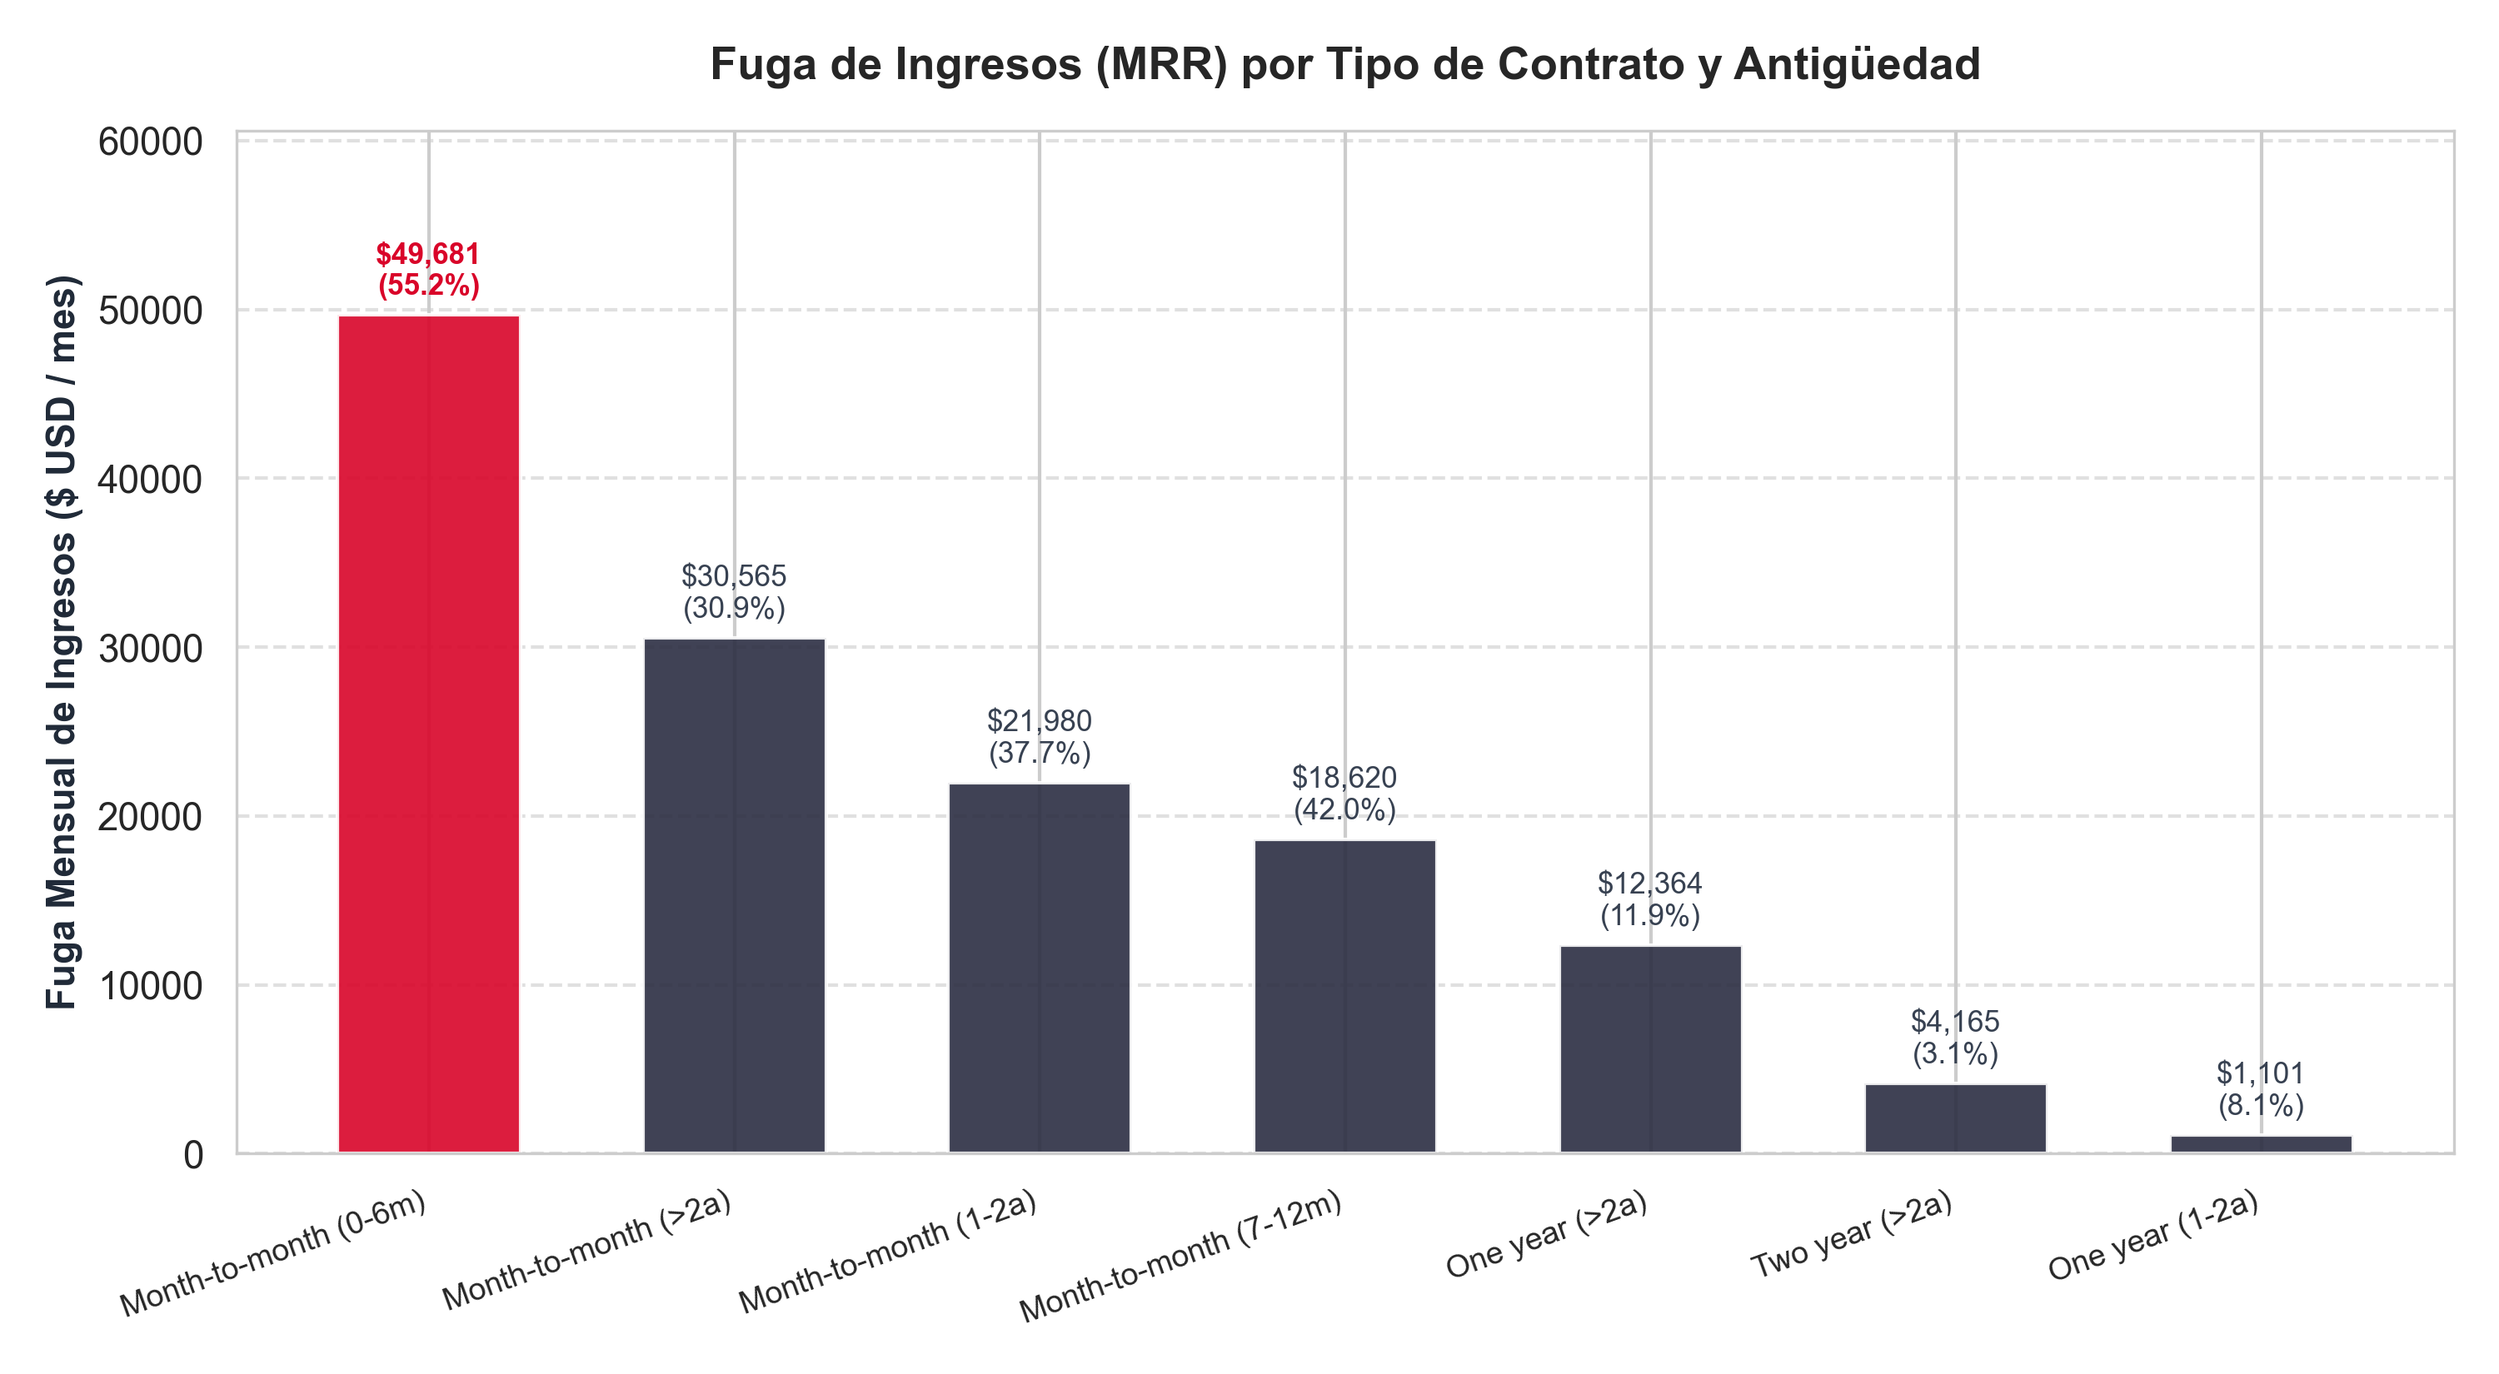
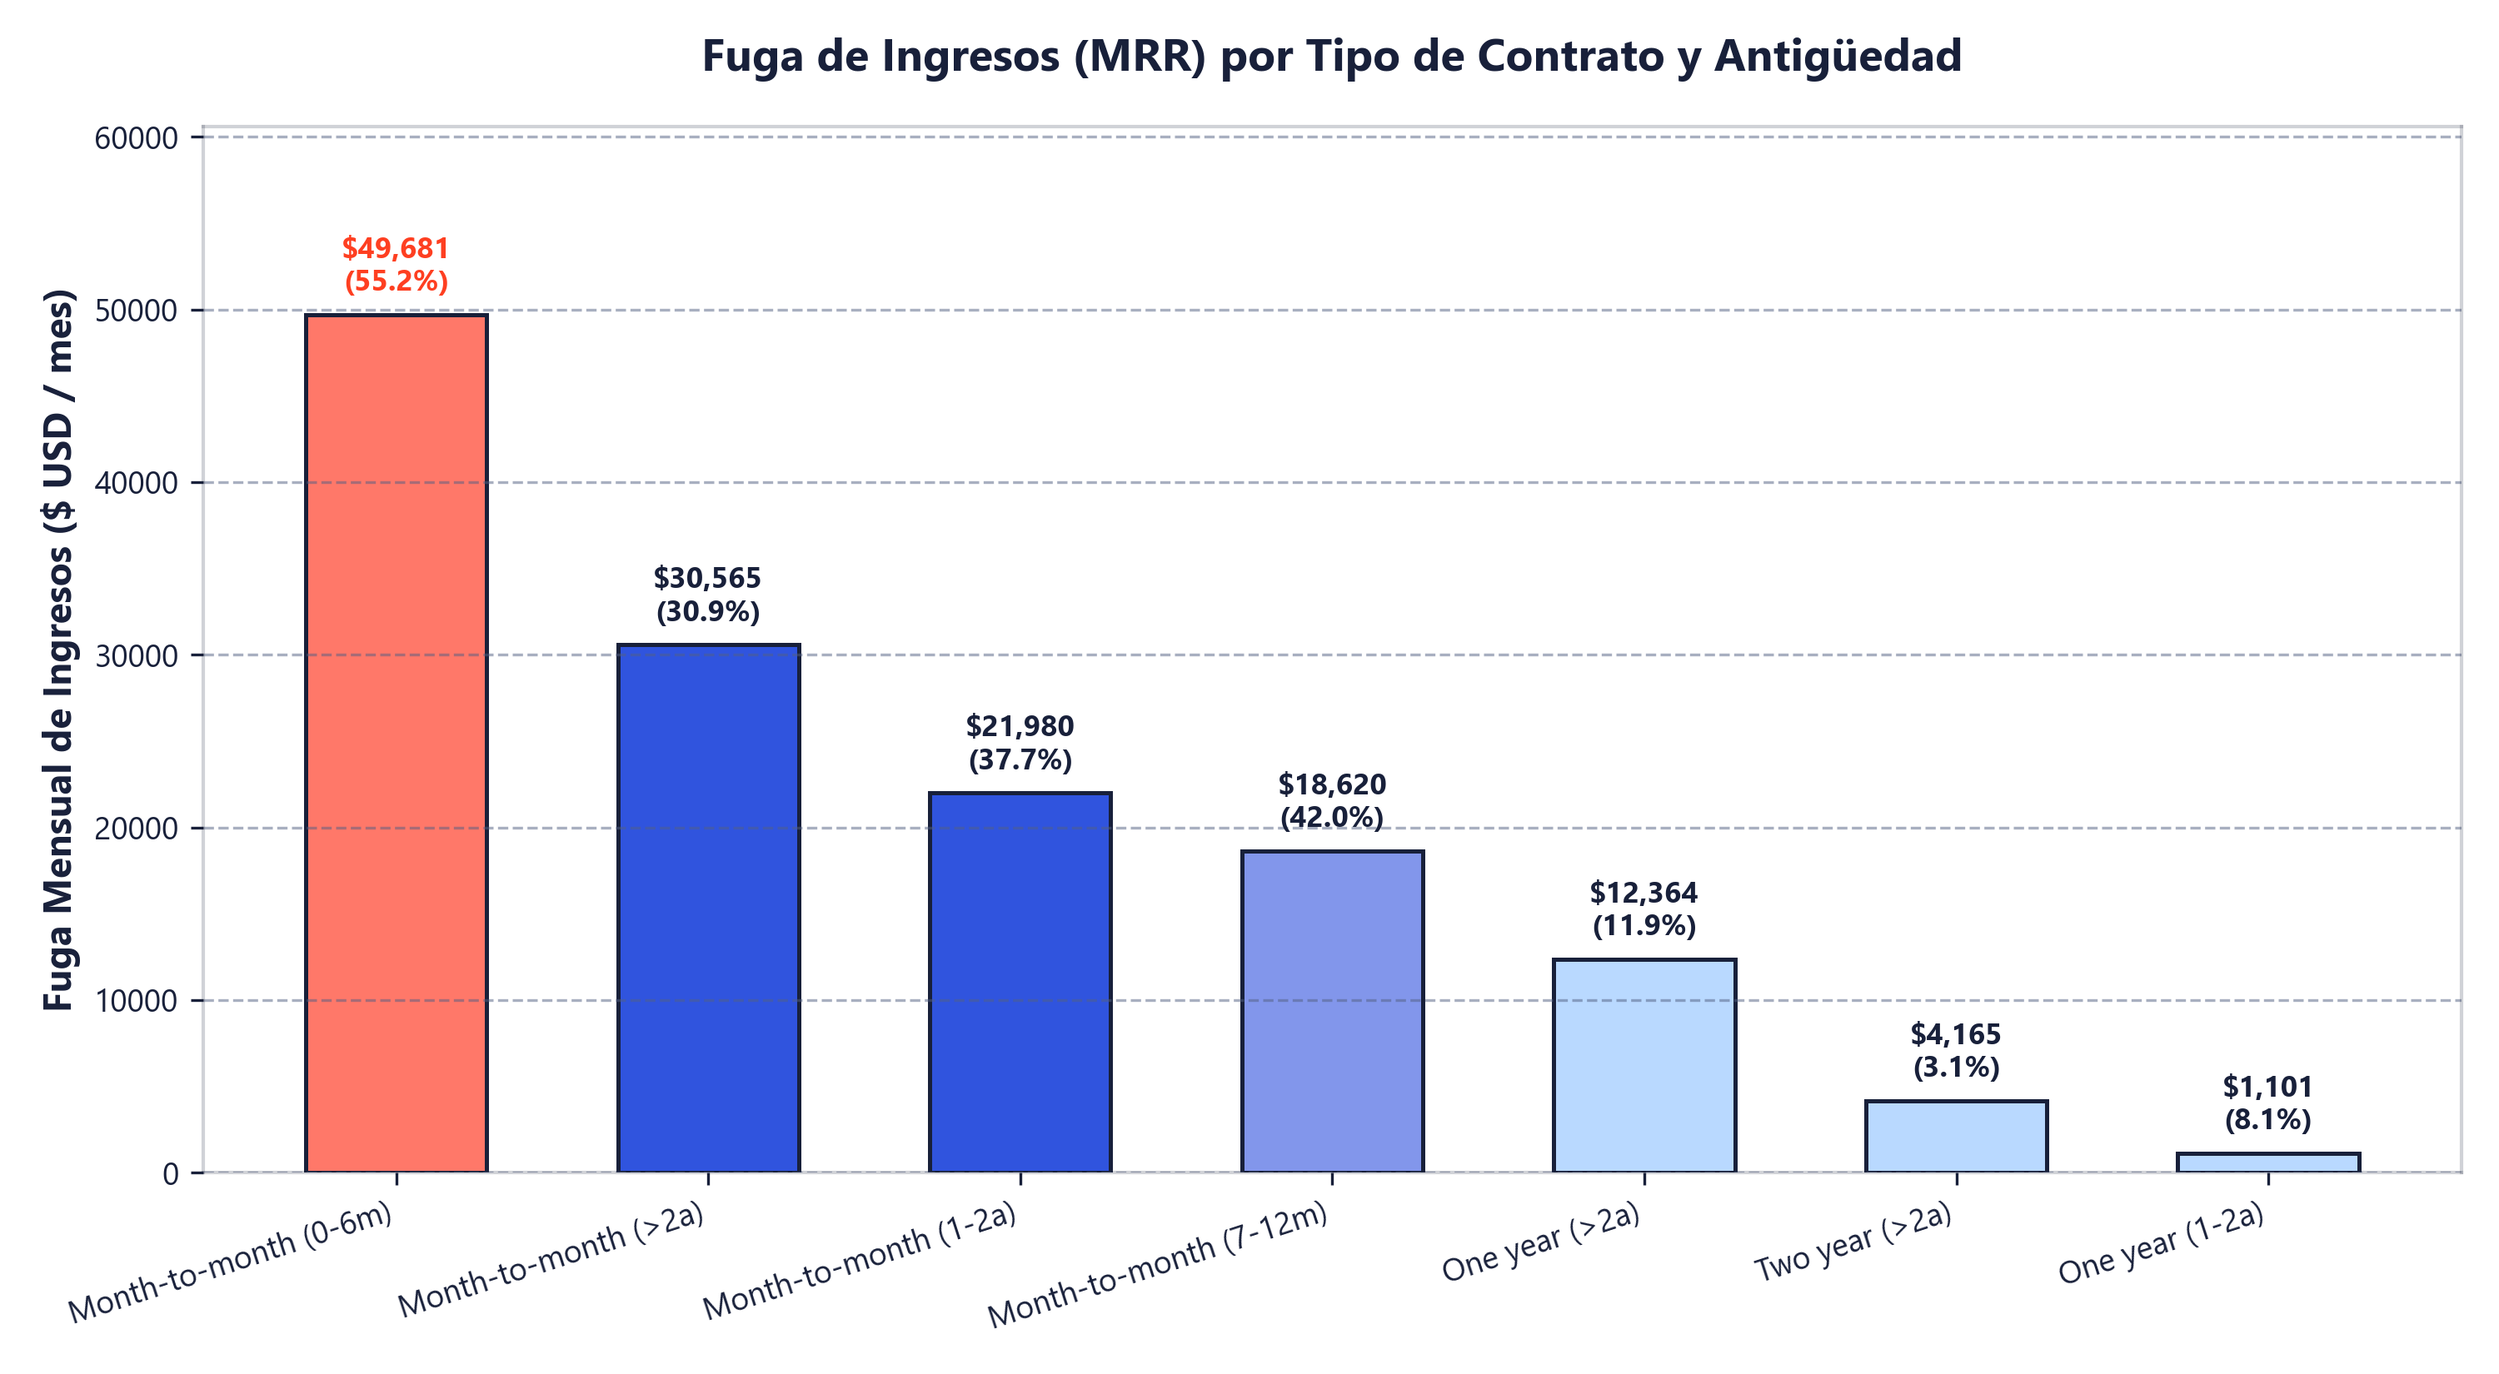
style: actualizar paleta de colores de visualizaciones segun identidad visual web

diff --git a/src/generar_visualizaciones.py b/src/generar_visualizaciones.py
@@ -1,27 +1,47 @@
 """
 Módulo: src.generar_visualizaciones
 Descripción: Generación de visualizaciones ejecutivas de alta resolución (300 DPI)
-para el análisis de retención de clientes y presentación de resultados.
+utilizando la paleta de identidad visual del portfolio (David Álvarez Data Science):
+- Navy (#18203a): Textos principales, ejes y tipografía
+- Muted Slate (#536083): Subtítulos, métricas secundarias y cuadrícula
+- Cobalt Blue (#3054de): Color principal de datos y contraste
+- Coral / Red (#ff7869 / #FE3F21): Indicador de alerta crítica y churn
+- Electric Lime (#c8ff48): Indicador de alto impacto, beneficio y ROI
+- Periwinkle / Lavender (#8296eb, #c9b8ff, #b9d9ff): Categorías complementarias
 """
 
 import sqlite3
 from pathlib import Path
 import matplotlib.pyplot as plt
 import pandas as pd
-import seaborn as sns
 
 
-def configurar_estilo_graficos():
-    """Aplica una estética visual limpia, profesional y consistente."""
-    plt.rcParams["font.sans-serif"] = "DejaVu Sans"
+# Paleta oficial extraída de https://alvarez-data-discovery.lovable.app/
+COLOR_NAVY = "#18203a"
+COLOR_SLATE = "#536083"
+COLOR_COBALT = "#3054de"
+COLOR_CORAL = "#ff7869"
+COLOR_CORAL_DARK = "#FE3F21"
+COLOR_LIME = "#c8ff48"
+COLOR_PERIWINKLE = "#8296eb"
+COLOR_LAVENDER = "#c9b8ff"
+COLOR_SOFT_BLUE = "#b9d9ff"
+COLOR_BG = "#ffffff"
+COLOR_GRID = "#18203a18"
+
+
+def configurar_estilo():
+    """Aplica el estilo editorial y limpio del portfolio."""
+    plt.rcParams["font.sans-serif"] = ["Segoe UI", "DejaVu Sans", "Helvetica", "sans-serif"]
     plt.rcParams["font.family"] = "sans-serif"
-    sns.set_theme(style="whitegrid", palette="muted")
-    plt.rcParams["axes.edgecolor"] = "#cccccc"
-    plt.rcParams["axes.linewidth"] = 0.8
+    plt.rcParams["figure.facecolor"] = COLOR_BG
+    plt.rcParams["axes.facecolor"] = COLOR_BG
+    plt.rcParams["axes.edgecolor"] = "#18203a33"
+    plt.rcParams["axes.linewidth"] = 1.0
 
 
 def generar_grafico_1(conexion: sqlite3.Connection, ruta_salida: Path):
-    """Gráfico 1: Pérdida mensual de ingresos (MRR) y tasa de churn por contrato y antigüedad."""
+    """Gráfico 1: Fuga mensual de ingresos (MRR) por contrato y antigüedad."""
     query = """
     SELECT 
         Contract || ' (' || 
@@ -46,36 +66,44 @@ def generar_grafico_1(conexion: sqlite3.Connection, ruta_salida: Path):
     """
     df = pd.read_sql_query(query, conexion)
 
-    fig, ax1 = plt.subplots(figsize=(10, 5.5), dpi=300)
+    fig, ax = plt.subplots(figsize=(10, 5.5), dpi=300)
 
-    # Colores: destacar el grupo de mayor riesgo en coral oscuro
-    colores = ["#d90429" if i == 0 else "#2b2d42" for i in range(len(df))]
-    barras = ax1.bar(df["segmento"], df["mrr_perdido"], color=colores, width=0.6, alpha=0.9)
+    # El foco crítico en coral vibrante (#ff7869), contratos mes a mes en cobalt (#3054de) y periwinkle (#8296eb)
+    colores = [
+        COLOR_CORAL if i == 0 else
+        COLOR_COBALT if i in [1, 2] else
+        COLOR_PERIWINKLE if i == 3 else
+        COLOR_SOFT_BLUE
+        for i in range(len(df))
+    ]
 
-    ax1.set_ylabel("Fuga Mensual de Ingresos ($ USD / mes)", fontsize=11, fontweight="bold", color="#1f2937")
-    ax1.set_title("Fuga de Ingresos (MRR) por Tipo de Contrato y Antigüedad", fontsize=13, fontweight="bold", pad=15)
-    ax1.grid(axis="y", linestyle="--", alpha=0.6)
-    plt.xticks(rotation=20, ha="right", fontsize=9)
+    barras = ax.bar(df["segmento"], df["mrr_perdido"], color=colores, width=0.58, edgecolor=COLOR_NAVY, linewidth=1.2)
+
+    ax.set_ylabel("Fuga Mensual de Ingresos ($ USD / mes)", fontsize=11, fontweight="bold", color=COLOR_NAVY)
+    ax.set_title("Fuga de Ingresos (MRR) por Tipo de Contrato y Antigüedad", fontsize=13, fontweight="bold", pad=16, color=COLOR_NAVY)
+    ax.grid(axis="y", linestyle="--", alpha=0.5, color=COLOR_SLATE)
+    ax.tick_params(colors=COLOR_NAVY, labelsize=9)
+    plt.xticks(rotation=18, ha="right")
 
     for i, (barra, tasa, mrr) in enumerate(zip(barras, df["tasa_churn"], df["mrr_perdido"])):
         altura = barra.get_height()
-        ax1.annotate(
+        ax.annotate(
             f"${mrr:,.0f}\n({tasa}%)",
             xy=(barra.get_x() + barra.get_width() / 2, altura),
-            xytext=(0, 4),
+            xytext=(0, 5),
             textcoords="offset points",
             ha="center",
             va="bottom",
             fontsize=8.5,
-            fontweight="bold" if i == 0 else "normal",
-            color="#d90429" if i == 0 else "#374151"
+            fontweight="bold" if i == 0 else "bold",
+            color=COLOR_CORAL_DARK if i == 0 else COLOR_NAVY
         )
 
-    ax1.set_ylim(0, max(df["mrr_perdido"]) * 1.22)
+    ax.set_ylim(0, max(df["mrr_perdido"]) * 1.22)
     plt.tight_layout()
     fig.savefig(ruta_salida, dpi=300)
     plt.close(fig)
-    print(f"  ✔ Gráfico 1 generado: {ruta_salida.name}")
+    print(f"  ✔ Gráfico 1 generado con paleta de marca: {ruta_salida.name}")
 
 
 def generar_grafico_2(conexion: sqlite3.Connection, ruta_salida: Path):
@@ -94,33 +122,42 @@ def generar_grafico_2(conexion: sqlite3.Connection, ruta_salida: Path):
     """
     df = pd.read_sql_query(query, conexion)
 
-    fig, ax = plt.subplots(figsize=(10, 6), dpi=300)
+    fig, ax = plt.subplots(figsize=(10.5, 6.2), dpi=300)
 
-    colores = ["#d90429" if "Fiber optic + Electronic check" in c else "#457b9d" if "Fiber" in c else "#a8dadc" for c in df["combinacion"]]
-    barras = ax.barh(df["combinacion"], df["tasa_churn"], color=colores, height=0.65)
+    colores = [
+        COLOR_CORAL if "Fiber optic + Electronic check" in c else
+        COLOR_PERIWINKLE if "Fiber" in c else
+        COLOR_SOFT_BLUE if "DSL" in c else
+        "#e8ebf2"
+        for c in df["combinacion"]
+    ]
 
-    ax.set_xlabel("Tasa de Abandono (Churn %)", fontsize=11, fontweight="bold", color="#1f2937")
-    ax.set_title("Segmento Crítico (0-6 meses sin permanencia): Churn por Servicio y Pago", fontsize=13, fontweight="bold", pad=15)
-    ax.grid(axis="x", linestyle="--", alpha=0.6)
+    barras = ax.barh(df["combinacion"], df["tasa_churn"], color=colores, height=0.65, edgecolor=COLOR_NAVY, linewidth=1.1)
+
+    ax.set_xlabel("Tasa de Abandono (Churn %)", fontsize=11, fontweight="bold", color=COLOR_NAVY)
+    ax.set_title("Segmento Crítico (0-6 meses sin permanencia): Churn por Servicio y Pago", fontsize=13, fontweight="bold", pad=16, color=COLOR_NAVY)
+    ax.grid(axis="x", linestyle="--", alpha=0.5, color=COLOR_SLATE)
+    ax.tick_params(colors=COLOR_NAVY, labelsize=9)
 
     for barra, total, canc in zip(barras, df["total"], df["cancelaciones"]):
         ancho = barra.get_width()
+        es_critico = ancho > 70
         ax.annotate(
             f" {ancho:.1f}% ({canc}/{total} clientes)",
             xy=(ancho, barra.get_y() + barra.get_height() / 2),
-            xytext=(3, 0),
+            xytext=(4, 0),
             textcoords="offset points",
             va="center",
             fontsize=8.5,
-            fontweight="bold" if ancho > 70 else "normal",
-            color="#d90429" if ancho > 70 else "#1f2937"
+            fontweight="bold" if es_critico else "normal",
+            color=COLOR_CORAL_DARK if es_critico else COLOR_NAVY
         )
 
-    ax.set_xlim(0, 105)
+    ax.set_xlim(0, 106)
     plt.tight_layout()
     fig.savefig(ruta_salida, dpi=300)
     plt.close(fig)
-    print(f"  ✔ Gráfico 2 generado: {ruta_salida.name}")
+    print(f"  ✔ Gráfico 2 generado con paleta de marca: {ruta_salida.name}")
 
 
 def generar_grafico_3(conexion: sqlite3.Connection, ruta_salida: Path):
@@ -144,33 +181,35 @@ def generar_grafico_3(conexion: sqlite3.Connection, ruta_salida: Path):
     """
     df = pd.read_sql_query(query, conexion)
 
-    fig, ax = plt.subplots(figsize=(9, 5), dpi=300)
-    colores = ["#d90429", "#e76f51", "#2a9d8f", "#264653"]
-    barras = ax.bar(df["categoria"], df["tasa_churn"], color=colores, width=0.55)
+    fig, ax = plt.subplots(figsize=(9, 5.2), dpi=300)
+    colores = [COLOR_CORAL, COLOR_PERIWINKLE, COLOR_LAVENDER, COLOR_COBALT]
+    barras = ax.bar(df["categoria"], df["tasa_churn"], color=colores, width=0.55, edgecolor=COLOR_NAVY, linewidth=1.2)
 
-    ax.set_ylabel("Tasa de Churn (%)", fontsize=11, fontweight="bold")
-    ax.set_title("Efecto Protector de Servicios de Soporte y Seguridad (Nuevos Clientes)", fontsize=13, fontweight="bold", pad=15)
-    ax.grid(axis="y", linestyle="--", alpha=0.6)
-    plt.xticks(fontsize=9, fontweight="bold")
+    ax.set_ylabel("Tasa de Churn (%)", fontsize=11, fontweight="bold", color=COLOR_NAVY)
+    ax.set_title("Efecto Protector de Servicios de Soporte y Seguridad (Nuevos Clientes)", fontsize=13, fontweight="bold", pad=16, color=COLOR_NAVY)
+    ax.grid(axis="y", linestyle="--", alpha=0.5, color=COLOR_SLATE)
+    ax.tick_params(colors=COLOR_NAVY, labelsize=9)
+    plt.xticks(fontweight="bold")
 
     for barra, canc, tot in zip(barras, df["clientes_cancelados"], df["total_clientes"]):
         altura = barra.get_height()
         ax.annotate(
             f"{altura:.1f}%\n({canc}/{tot})",
             xy=(barra.get_x() + barra.get_width() / 2, altura),
-            xytext=(0, 4),
+            xytext=(0, 5),
             textcoords="offset points",
             ha="center",
             va="bottom",
             fontsize=9,
-            fontweight="bold"
+            fontweight="bold",
+            color=COLOR_NAVY
         )
 
     ax.set_ylim(0, 85)
     plt.tight_layout()
     fig.savefig(ruta_salida, dpi=300)
     plt.close(fig)
-    print(f"  ✔ Gráfico 3 generado: {ruta_salida.name}")
+    print(f"  ✔ Gráfico 3 generado con paleta de marca: {ruta_salida.name}")
 
 
 def generar_grafico_4(conexion: sqlite3.Connection, ruta_salida: Path):
@@ -182,14 +221,17 @@ def generar_grafico_4(conexion: sqlite3.Connection, ruta_salida: Path):
         "Beneficio Neto\nRecuperado (Año 1)"
     ]
     montos = [596175.60, 149043.90, 11178.29, 137865.61]
-    colores = ["#6c757d", "#2a9d8f", "#e76f51", "#1d3557"]
+    
+    # Paleta del portfolio: Slate, Cobalt, Coral y Electric Lime para el Beneficio Neto con ROI
+    colores = [COLOR_SLATE, COLOR_COBALT, COLOR_CORAL, COLOR_LIME]
 
-    fig, ax = plt.subplots(figsize=(9, 5.5), dpi=300)
-    barras = ax.bar(conceptos, montos, color=colores, width=0.55)
+    fig, ax = plt.subplots(figsize=(9.5, 5.8), dpi=300)
+    barras = ax.bar(conceptos, montos, color=colores, width=0.55, edgecolor=COLOR_NAVY, linewidth=1.3)
 
-    ax.set_ylabel("Valor Económico ($ USD)", fontsize=11, fontweight="bold")
-    ax.set_title("Simulación Financiera y Retorno de Inversión (ROI)", fontsize=13, fontweight="bold", pad=15)
-    ax.grid(axis="y", linestyle="--", alpha=0.6)
+    ax.set_ylabel("Valor Económico ($ USD)", fontsize=11, fontweight="bold", color=COLOR_NAVY)
+    ax.set_title("Simulación Financiera y Retorno de Inversión (ROI)", fontsize=13, fontweight="bold", pad=16, color=COLOR_NAVY)
+    ax.grid(axis="y", linestyle="--", alpha=0.5, color=COLOR_SLATE)
+    ax.tick_params(colors=COLOR_NAVY, labelsize=9)
 
     for i, (barra, monto) in enumerate(zip(barras, montos)):
         altura = barra.get_height()
@@ -199,24 +241,24 @@ def generar_grafico_4(conexion: sqlite3.Connection, ruta_salida: Path):
         ax.annotate(
             texto,
             xy=(barra.get_x() + barra.get_width() / 2, altura),
-            xytext=(0, 4),
+            xytext=(0, 5),
             textcoords="offset points",
             ha="center",
             va="bottom",
-            fontsize=9,
+            fontsize=9.5,
             fontweight="bold",
-            color=colores[i]
+            color=COLOR_NAVY
         )
 
-    ax.set_ylim(0, max(montos) * 1.18)
+    ax.set_ylim(0, max(montos) * 1.20)
     plt.tight_layout()
     fig.savefig(ruta_salida, dpi=300)
     plt.close(fig)
-    print(f"  ✔ Gráfico 4 generado: {ruta_salida.name}")
+    print(f"  ✔ Gráfico 4 generado con paleta de marca: {ruta_salida.name}")
 
 
 def generar_todas_las_visualizaciones(ruta_bd: Path = None, carpeta_salidas: Path = None):
-    """Ejecuta la generación completa de gráficos ejecutivos."""
+    """Ejecuta la generación completa de gráficos con la paleta oficial."""
     directorio_raiz = Path(__file__).resolve().parent.parent
     if ruta_bd is None:
         ruta_bd = directorio_raiz / "telco_churn.db"
@@ -229,10 +271,10 @@ def generar_todas_las_visualizaciones(ruta_bd: Path = None, carpeta_salidas: Pat
         raise FileNotFoundError(f"No existe la base de datos en {ruta_bd}. Ejecuta primero cargar_datos.py.")
 
     print("=" * 70)
-    print(" GENERACIÓN DE VISUALIZACIONES EJECUTIVAS ")
+    print(" GENERACIÓN DE VISUALIZACIONES CON PALETA OFICIAL DE MARCA ")
     print("=" * 70)
 
-    configurar_estilo_graficos()
+    configurar_estilo()
     conexion = sqlite3.connect(ruta_bd)
 
     generar_grafico_1(conexion, carpeta_salidas / "grafico_01_mrr_perdido_contrato.png")
@@ -241,7 +283,7 @@ def generar_todas_las_visualizaciones(ruta_bd: Path = None, carpeta_salidas: Pat
     generar_grafico_4(conexion, carpeta_salidas / "grafico_04_simulacion_roi.png")
 
     conexion.close()
-    print("✔ Visualizaciones exportadas con éxito en outputs/.\n")
+    print("✔ Visualizaciones exportadas con la paleta de la web en outputs/.\n")
 
 
 if __name__ == "__main__":

diff --git a/INFORME_EJECUTIVO.md b/INFORME_EJECUTIVO.md
@@ -123,3 +123,4 @@ A través de una consulta SQL con expresiones de tabla comunes (`WITH ... CTE`),
 ---
 
 *Informe elaborado con análisis reproducible en SQLite y Python. Para consultar el código y las consultas SQL completas, revise el repositorio.*
+
